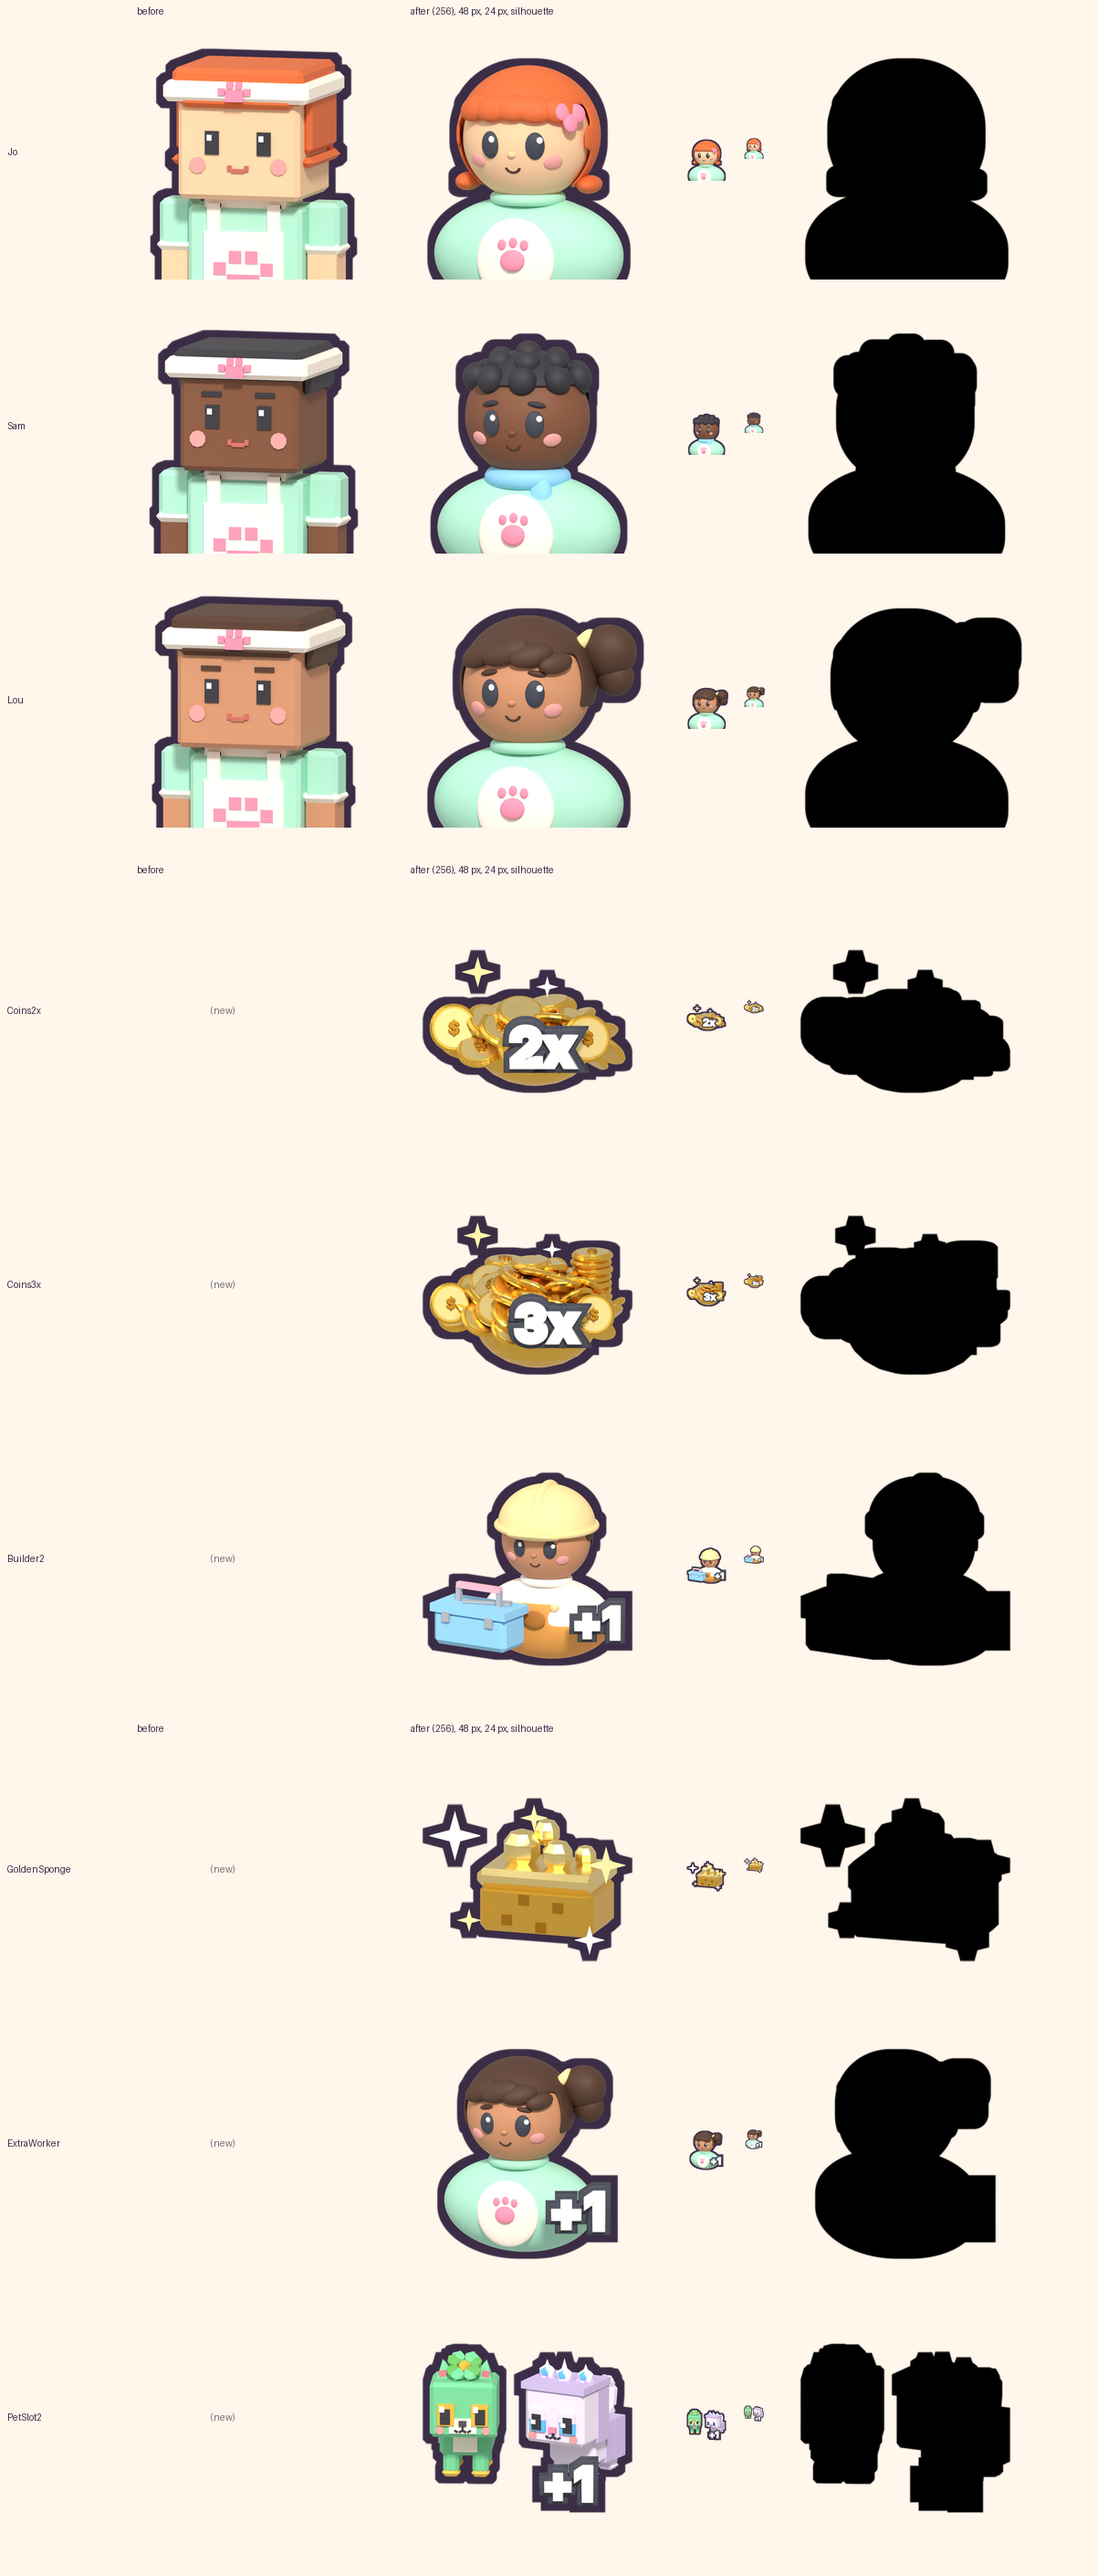
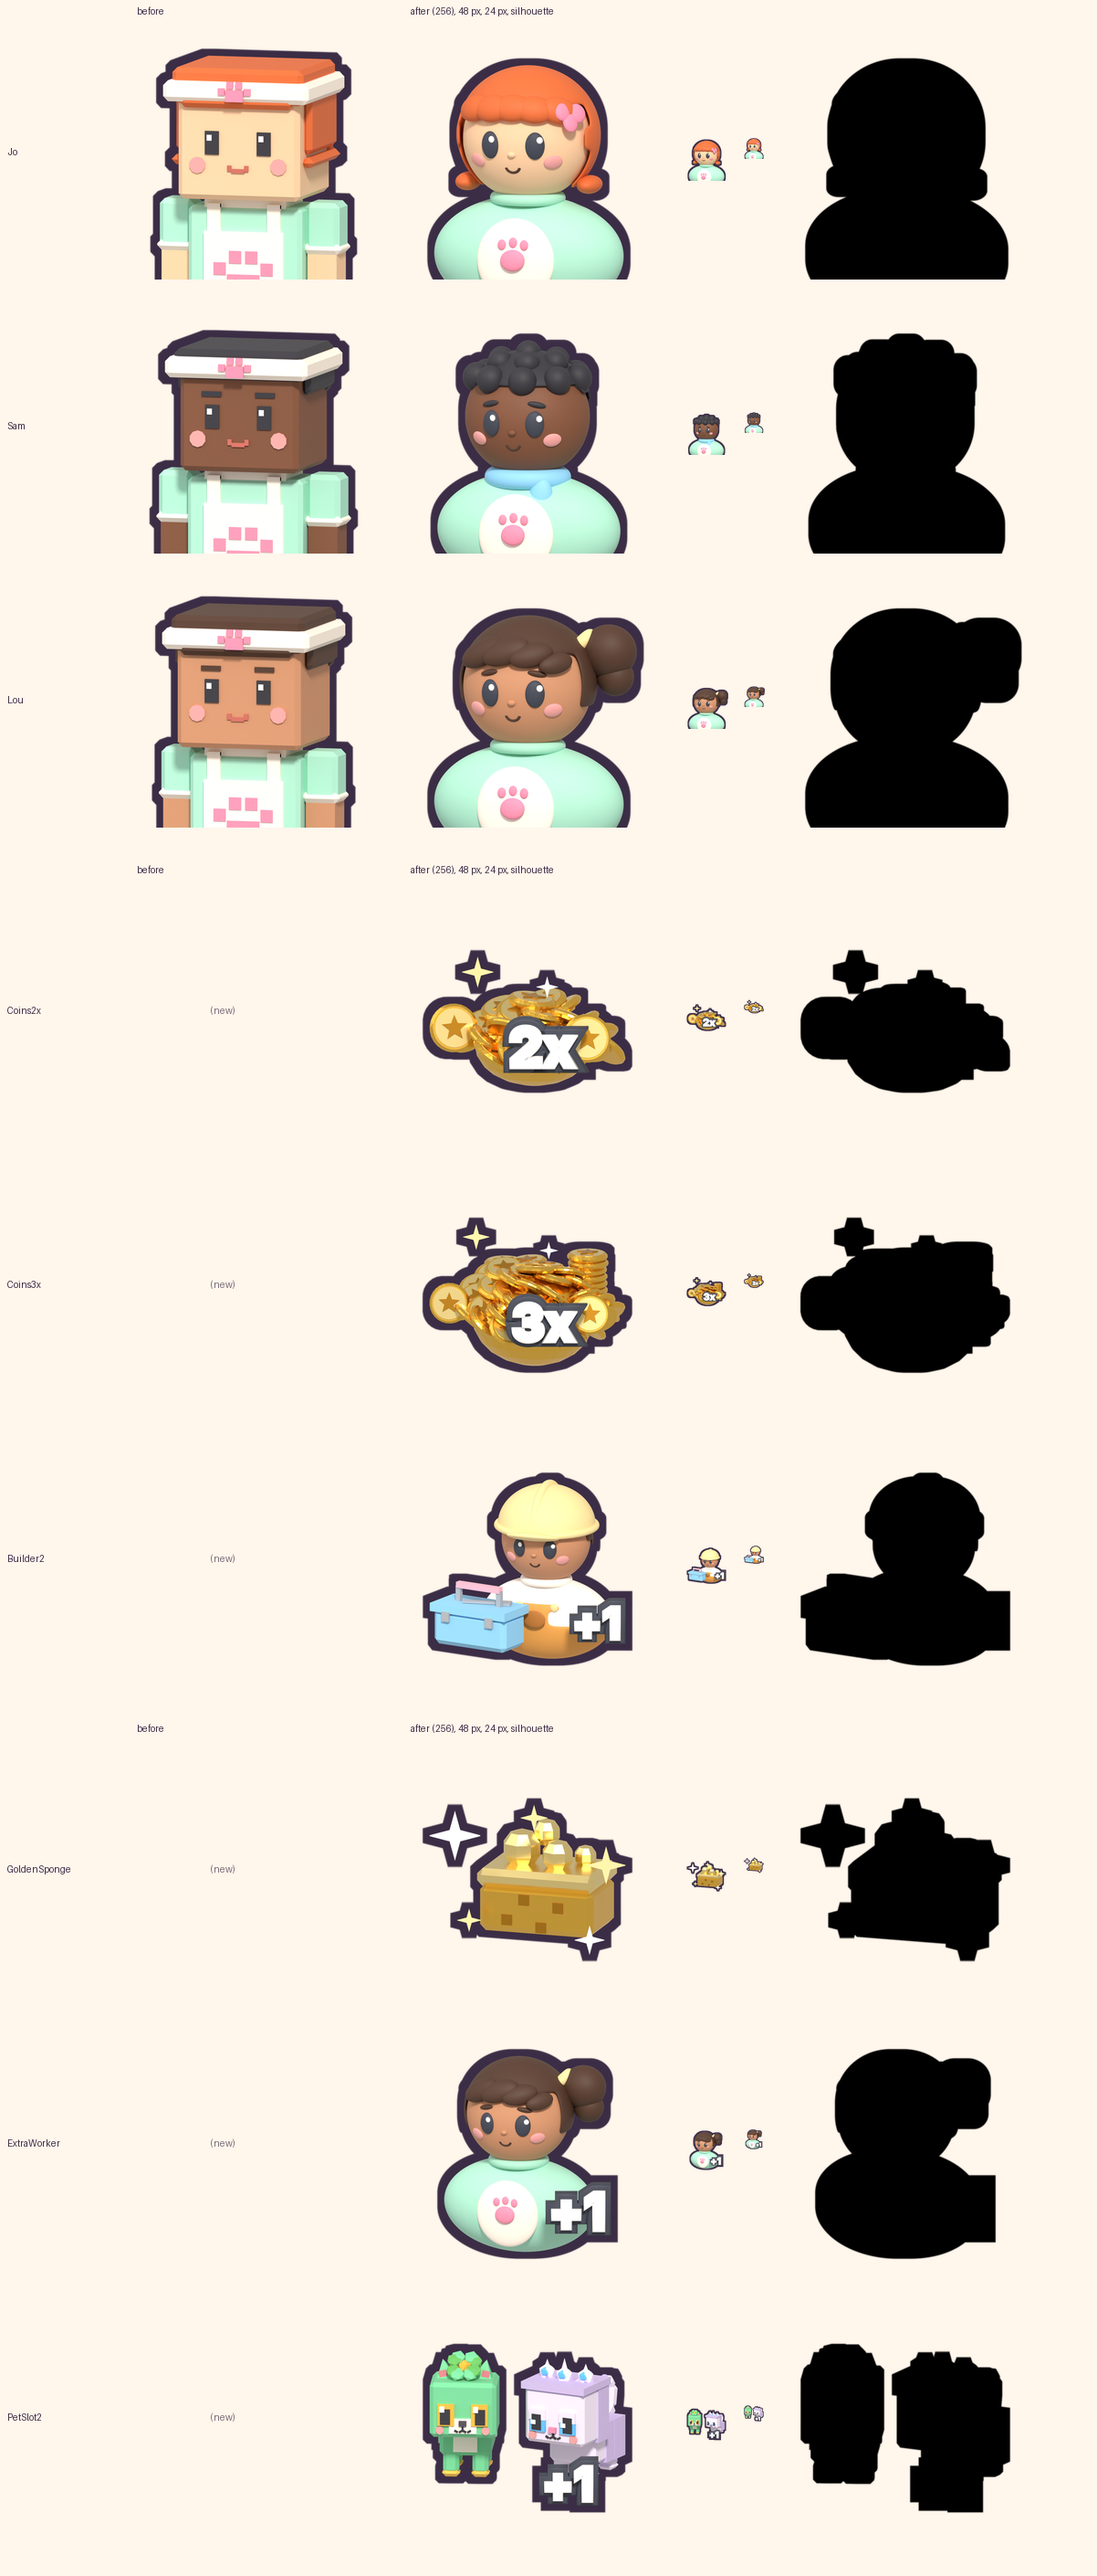
Shop coin pictures: a star on the coins, no money sign (Review-QA image gate, #1030)
Claude-Session: https://claude.ai/code/session_01DW2up1ahn23P9Rf5xanBXQ

diff --git a/assets/clean-a-cat/blender/shop_art.py b/assets/clean-a-cat/blender/shop_art.py
@@ -5,7 +5,7 @@
 Derek's playtest, 2026-11-27: the shop's pictures "kinda suck and suck at selling it". Each card's picture now shows
 what the player gets, big and at once:
 
-  shop_Coins2x       a heap of gold coins with a big "2x" in front
+  shop_Coins2x       a heap of gold coins (a star on each, no money sign) with a big "2x" in front
   shop_Coins3x       a bigger heap with "3x" (#1031)
   shop_Builder2      the builder in his hard hat and dungarees with his toolbox, and "+1": a second build at once
   shop_GoldenSponge  the golden sponge with sparkles round it
@@ -95,19 +95,14 @@ def sparkle(b, at, size, swatch=STAR, turn=None):
 
 
 def _coin(b, at, tilt=(0.0, 0.0), yaw=0.0):
-    """One thick gold coin with a raised pale face and a dollar sign (the HUD coin's look)."""
+    """One thick gold coin with a raised pale face and a star on it. No money sign: Review-QA's gate (#1030)
+    keeps real-money symbols off a Robux card's picture."""
     rot = Matrix.Rotation(yaw, 3, "Z") @ Matrix.Rotation(tilt[0], 3, "X") @ Matrix.Rotation(tilt[1], 3, "Y")
     c = Vector(at)
     up = rot @ Vector((0, 0, 1))
     b.cyl(tuple(c), 0.5, 0.16, "gold_mid", segments=28, rot=rot)
     b.cyl(tuple(c + up * 0.085), 0.4, 0.02, "gold_light", segments=28, bevel=False, rot=rot)
-    return c + up * 0.1, rot
-
-
-def _dollar(at, rot, mat):
-    ob = _text("$", 0.5, "gold_dark", mat, depth=0.03, name="CleanACat_Coin_Mark")
-    ob.matrix_world = Matrix.Translation(at) @ rot.to_4x4() @ Matrix.Rotation(-math.pi / 2, 4, "X")
-    return ob
+    b.star(tuple(c + up * 0.105), 0.27, 0.12, 0.03, "gold_dark", rot=rot)
 
 
 def coins(mat, mult):
@@ -115,7 +110,7 @@ def coins(mat, mult):
     rng = random.Random(7 * mult)
     R, H, n = (1.5, 0.9, 48) if mult == 2 else (1.9, 1.35, 84)
     b = common.Builder()
-    objs, marks = [], []
+    objs = []
     placed = []
     for i in range(n * 4):
         if len(placed) >= n:
@@ -129,22 +124,16 @@ def coins(mat, mult):
         slope = 2 * H * r / (R * R)
         tilt = (math.atan(slope) * math.sin(a) * -0.8 + rng.uniform(-0.15, 0.15),
                 math.atan(slope) * math.cos(a) * 0.8 + rng.uniform(-0.15, 0.15))
-        top, rot = _coin(b, (x, y, z), tilt, rng.random() * math.pi)
-        if r > R * 0.35 or rng.random() < 0.5:
-            marks.append((top, rot))
+        _coin(b, (x, y, z), tilt, rng.random() * math.pi)
     fill = common.Builder()                            # the heap's inside, so no gap shows between the coins
     fill.sphere((0, 0, 0.0), 1.0, "gold_mid", segments=24, rings=12, scale=(R * 0.8, R * 0.64, H * 0.85))
     for x in (-0.95 * R, 0.95 * R):                     # two coins standing on edge, faces to the camera
-        top, rot = _coin(b, (x, -R * 0.55, 0.5), (math.pi / 2 - 0.25, 0.0), math.radians(VIEW[0]) + rng.uniform(-0.2, 0.2))
-        marks.append((top, rot))
+        _coin(b, (x, -R * 0.55, 0.5), (math.pi / 2 - 0.25, 0.0), math.radians(VIEW[0]) + rng.uniform(-0.2, 0.2))
     if mult == 3:                                      # 3x: two tall stacks behind the heap as well
         for x, k in ((-R * 0.55, 7), (R * 0.6, 9)):
             for j in range(k):
-                _, rot = _coin(b, (x + rng.uniform(-0.04, 0.04), R * 0.45, 0.1 + 0.17 * j), (0.0, 0.0),
-                               rng.random() * math.pi)
-            marks.append((Vector((x, R * 0.45, 0.1 + 0.17 * (k - 1) + 0.1)), rot))
+                _coin(b, (x + rng.uniform(-0.04, 0.04), R * 0.45, 0.1 + 0.17 * j), (0.0, 0.0), rng.random() * math.pi)
     objs += [b.finalize("CleanACat_Coins", mat), fill.finalize("CleanACat_CoinsFill", mat, bevel=0)]
-    objs += [_dollar(t, r_, mat) for t, r_ in marks]
     objs += word(f"{mult}x", 1.6 if mult == 2 else 1.8, (R * 0.5, -R - 0.2, 0.5), mat)
     s = common.Builder()
     sparkle(s, (-R * 0.7, -0.4, H + 0.7), 0.32)

diff --git a/assets/clean-a-cat/ui/icons/shop/README.md b/assets/clean-a-cat/ui/icons/shop/README.md
@@ -6,7 +6,7 @@ the ink outline all round). Render, don't edit by hand.
 
 | File | Card |
 |---|---|
-| `CleanACat_UI_Shop_Coins2x.png` | 2x coins: a heap of gold coins with "2x" |
+| `CleanACat_UI_Shop_Coins2x.png` | 2x coins: a heap of gold coins with "2x". The coins carry a star, never a money sign (Review-QA's gate) |
 | `CleanACat_UI_Shop_Coins3x.png` | 3x coins (#1031): a bigger heap with "3x" |
 | `CleanACat_UI_Shop_Builder2.png` | the second builder: the builder with his toolbox and "+1" |
 | `CleanACat_UI_Shop_GoldenSponge.png` | the golden sponge with sparkles |
